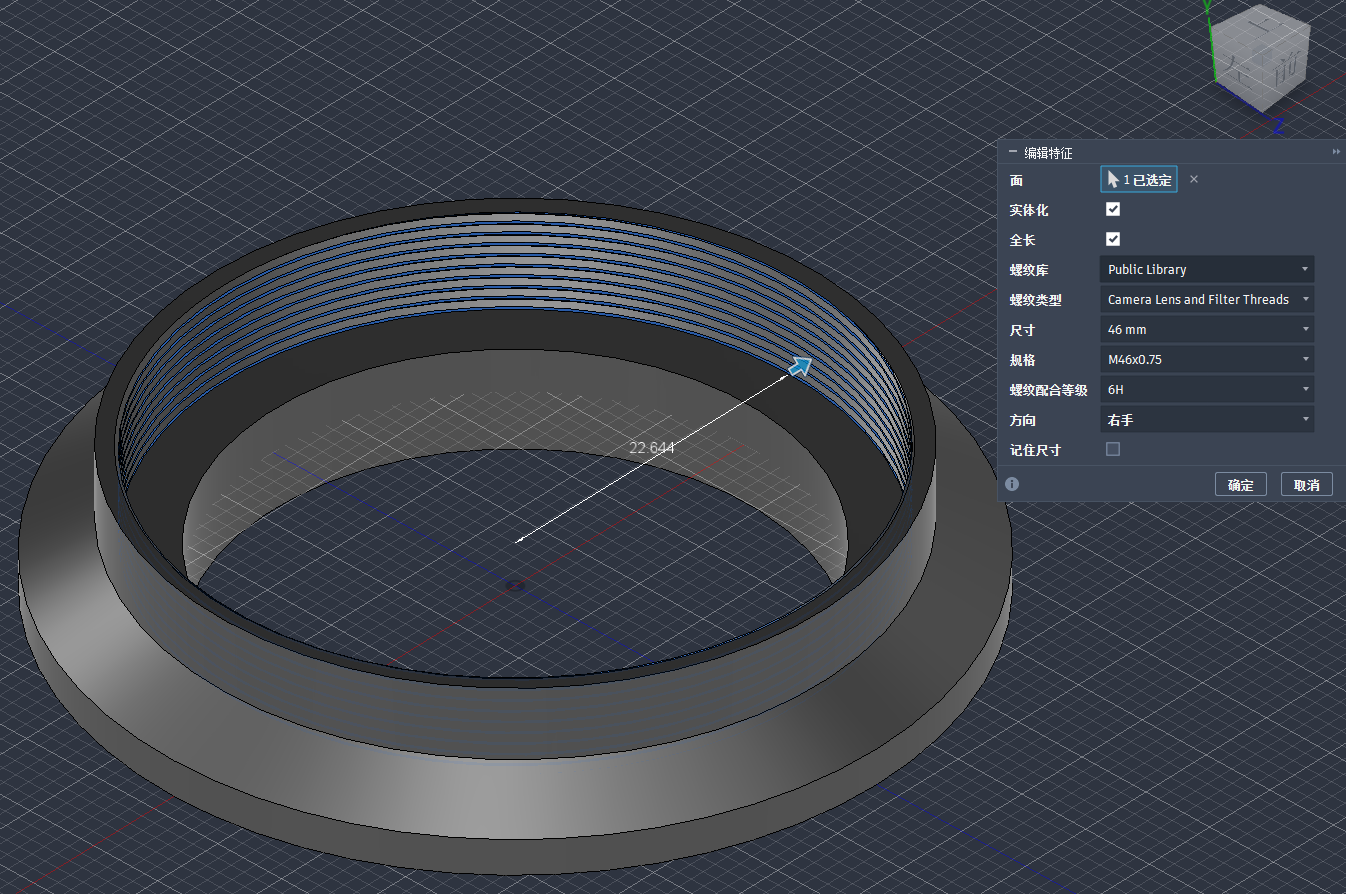
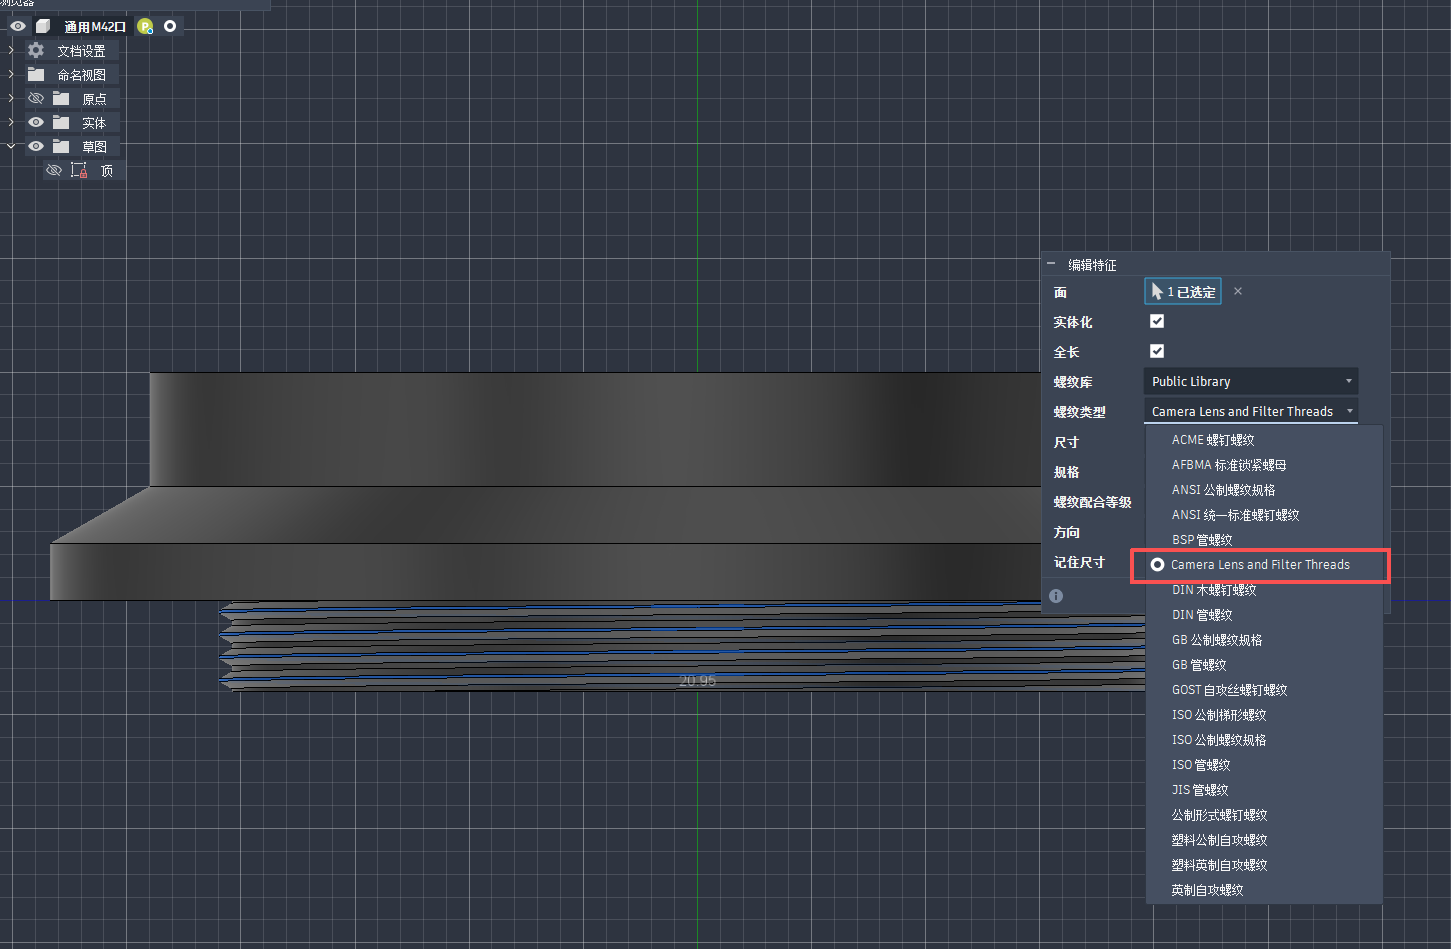
docs: update README images to 6 total — add designation-list & fusion-create-thread
Image changes:
- thread-type-dropdown.png: updated with better crop (201 KB → 68 KB)
- designation-list.png: NEW — Designation dropdown showing both 0.75 & 1.0 pitches
- fusion-create-thread.png: NEW — Create Thread dialog (replaces fusion-thread-dialog.png)
- fusion-thread-dialog.png: removed (replaced by fusion-create-thread.png)
- result-part.png: not tracked (was a renamed copy of old fusion-thread-dialog.png)

Both README.md and README.zh-CN.md now reference exactly 6 images each.
Also updated: docs/images/README.md manifest, reddit-posts/README.md,
reddit-posts/POSTING-KIT.md (image name references).

diff --git a/README.md b/README.md
@@ -122,11 +122,15 @@ apart.
 - **M43**: filter thread → `0.75 mm`.
 
 In Fusion 360, just pick the matching designation in the *Designation* dropdown
-— see the designation image in
-[Using it in Fusion 360](#using-it-in-fusion-360) for both pitches side by side.
+— the screenshot below shows both pitches listed side by side.
 
 <p align="center">
   <img src="docs/images/thread-geometry.svg" alt="ISO metric 60-degree thread profile with pitch, major/minor diameter and fit clearance" width="720">
+</p>
+
+<p align="center">
+  <img src="docs/images/designation-list.png" alt="Fusion 360 Designation dropdown showing M46x0.75 and M46x1.0 side by side" width="560">
+  <br><em>The <strong>Designation</strong> dropdown lists both pitches for each size — e.g. <code>M46x0.75</code> (filter) and <code>M46x1.0</code> (mount).</em>
 </p>
 
 ## Requirements
@@ -234,8 +238,8 @@ set **Thread Type → `Camera Lens and Filter Threads`**.
 **Internal**. Click **OK**.
 
 <p align="center">
-  <img src="docs/images/fusion-thread-dialog.png" alt="Completed Thread dialog applied to a body" width="820">
-  <br><em>Thread dialog with <strong>Camera Lens and Filter Threads</strong> selected, showing a modeled thread on a cylindrical body.</em>
+  <img src="docs/images/fusion-create-thread.png" alt="Fusion 360 Create Thread dialog with Camera Lens and Filter Threads selected" width="820">
+  <br><em>The <strong>Thread</strong> dialog with <strong>Camera Lens and Filter Threads</strong> selected — pick Size and Designation, then OK.</em>
 </p>
 
 > **To make two parts screw together**, give the external part and the internal

diff --git a/docs/images/README.md b/docs/images/README.md
@@ -5,12 +5,13 @@ Images currently present in this directory:
 | # | File | Status | What it shows |
 |---|------|--------|---------------|
 | 1 | `banner.svg` | ✅ Done | Hero banner (SVG, auto-rendered on GitHub) |
-| 2 | `thread-geometry.svg` | ✅ Done | ISO 60° thread profile diagram (SVG) |
-| 3 | `thread-type-dropdown.png` | ✅ Done | **Key screenshot:** Fusion Thread dialog with "Camera Lens and Filter Threads" selected in the Thread Type dropdown |
-| 4 | `install-windows.png` | ✅ Done | Windows Explorer: right-click on `install_windows.ps1` → "Run with PowerShell" highlighted |
-| 5 | `fusion-thread-dialog.png` | ✅ Done | Full Fusion 360 Thread dialog: Modeled checked, Camera Lens and Filter Threads selected, M46x0.75 designation, threaded ring visible on canvas |
+| 2 | `thread-type-dropdown.png` | ✅ Updated | **Key screenshot:** Fusion Thread dialog with "Camera Lens and Filter Threads" selected in the Thread Type dropdown |
+| 3 | `thread-geometry.svg` | ✅ Done | ISO 60° thread profile diagram (SVG) |
+| 4 | `designation-list.png` | ✅ Done | Designation dropdown showing both pitches (M46x0.75 and M46x1.0) side by side |
+| 5 | `install-windows.png` | ✅ Done | Windows: running install_windows.ps1 in PowerShell |
+| 6 | `fusion-create-thread.png` | ✅ Done | Fusion 360 Thread dialog: Camera Lens and Filter Threads selected, Size and Designation visible |
 
 ## Notes
 
-- All referenced images in README.md / README.zh-CN.md are present — no broken links.
+- All 6 referenced images in README.md / README.zh-CN.md are present — no broken links.
 - If you want to add more screenshots later (e.g., macOS install, two printed parts screwed together), just drop them here and update the READMEs.

diff --git a/reddit-posts/POSTING-KIT.md b/reddit-posts/POSTING-KIT.md
@@ -12,7 +12,7 @@
 - 主帖有了几条评论后，用 Reddit 自带 **Crosspost** 转到其他对口板块，比新开帖更稳。
 - 建帖时**挂上这 3 张截图**（视觉证明，转化率高）：
   - `thread-type-dropdown.png`（螺纹类型下拉出现本库）
-  - `fusion-thread-dialog.png`（完整螺纹对话框）
+  - `fusion-create-thread.png`（创建螺纹对话框）
   - `install-windows.png`（右键 → 用 PowerShell 运行）
 - 多数板块把**链接放「第一条评论」**最安全（正文裸链常被自动移除）。
 - 发帖后 **2 小时内秒回评论**，把帖子顶上 rising。

diff --git a/reddit-posts/README.md b/reddit-posts/README.md
@@ -49,7 +49,7 @@ https://github.com/HairuoLiu/fusion-lens-threads/releases/download/v1.0.0/fusion
 3. **顶帖第一条评论放下载链接。** 很多板块（尤其 r/photography、r/DIY）会自动移除正文里的裸 URL，链接放"第一条评论"最稳。
 4. **发图！** 建帖时用 Reddit 的"图片"按钮挂上这 3 张截图（视觉证明 = 转化率翻倍）：
    - `thread-type-dropdown.png`（螺纹类型下拉出现本库）
-   - `fusion-thread-dialog.png`（完整螺纹对话框）
+   - `fusion-create-thread.png`（创建螺纹对话框）
    - `install-windows.png`（右键→用 PowerShell 运行）
    或直接贴 GitHub README 链接（里面图已渲染好）。
 5. **发帖后 2 小时内秒回每条评论。** 互动率把帖子顶上 "rising" → 进入更多人的首页 → 浏览量滚雪球。